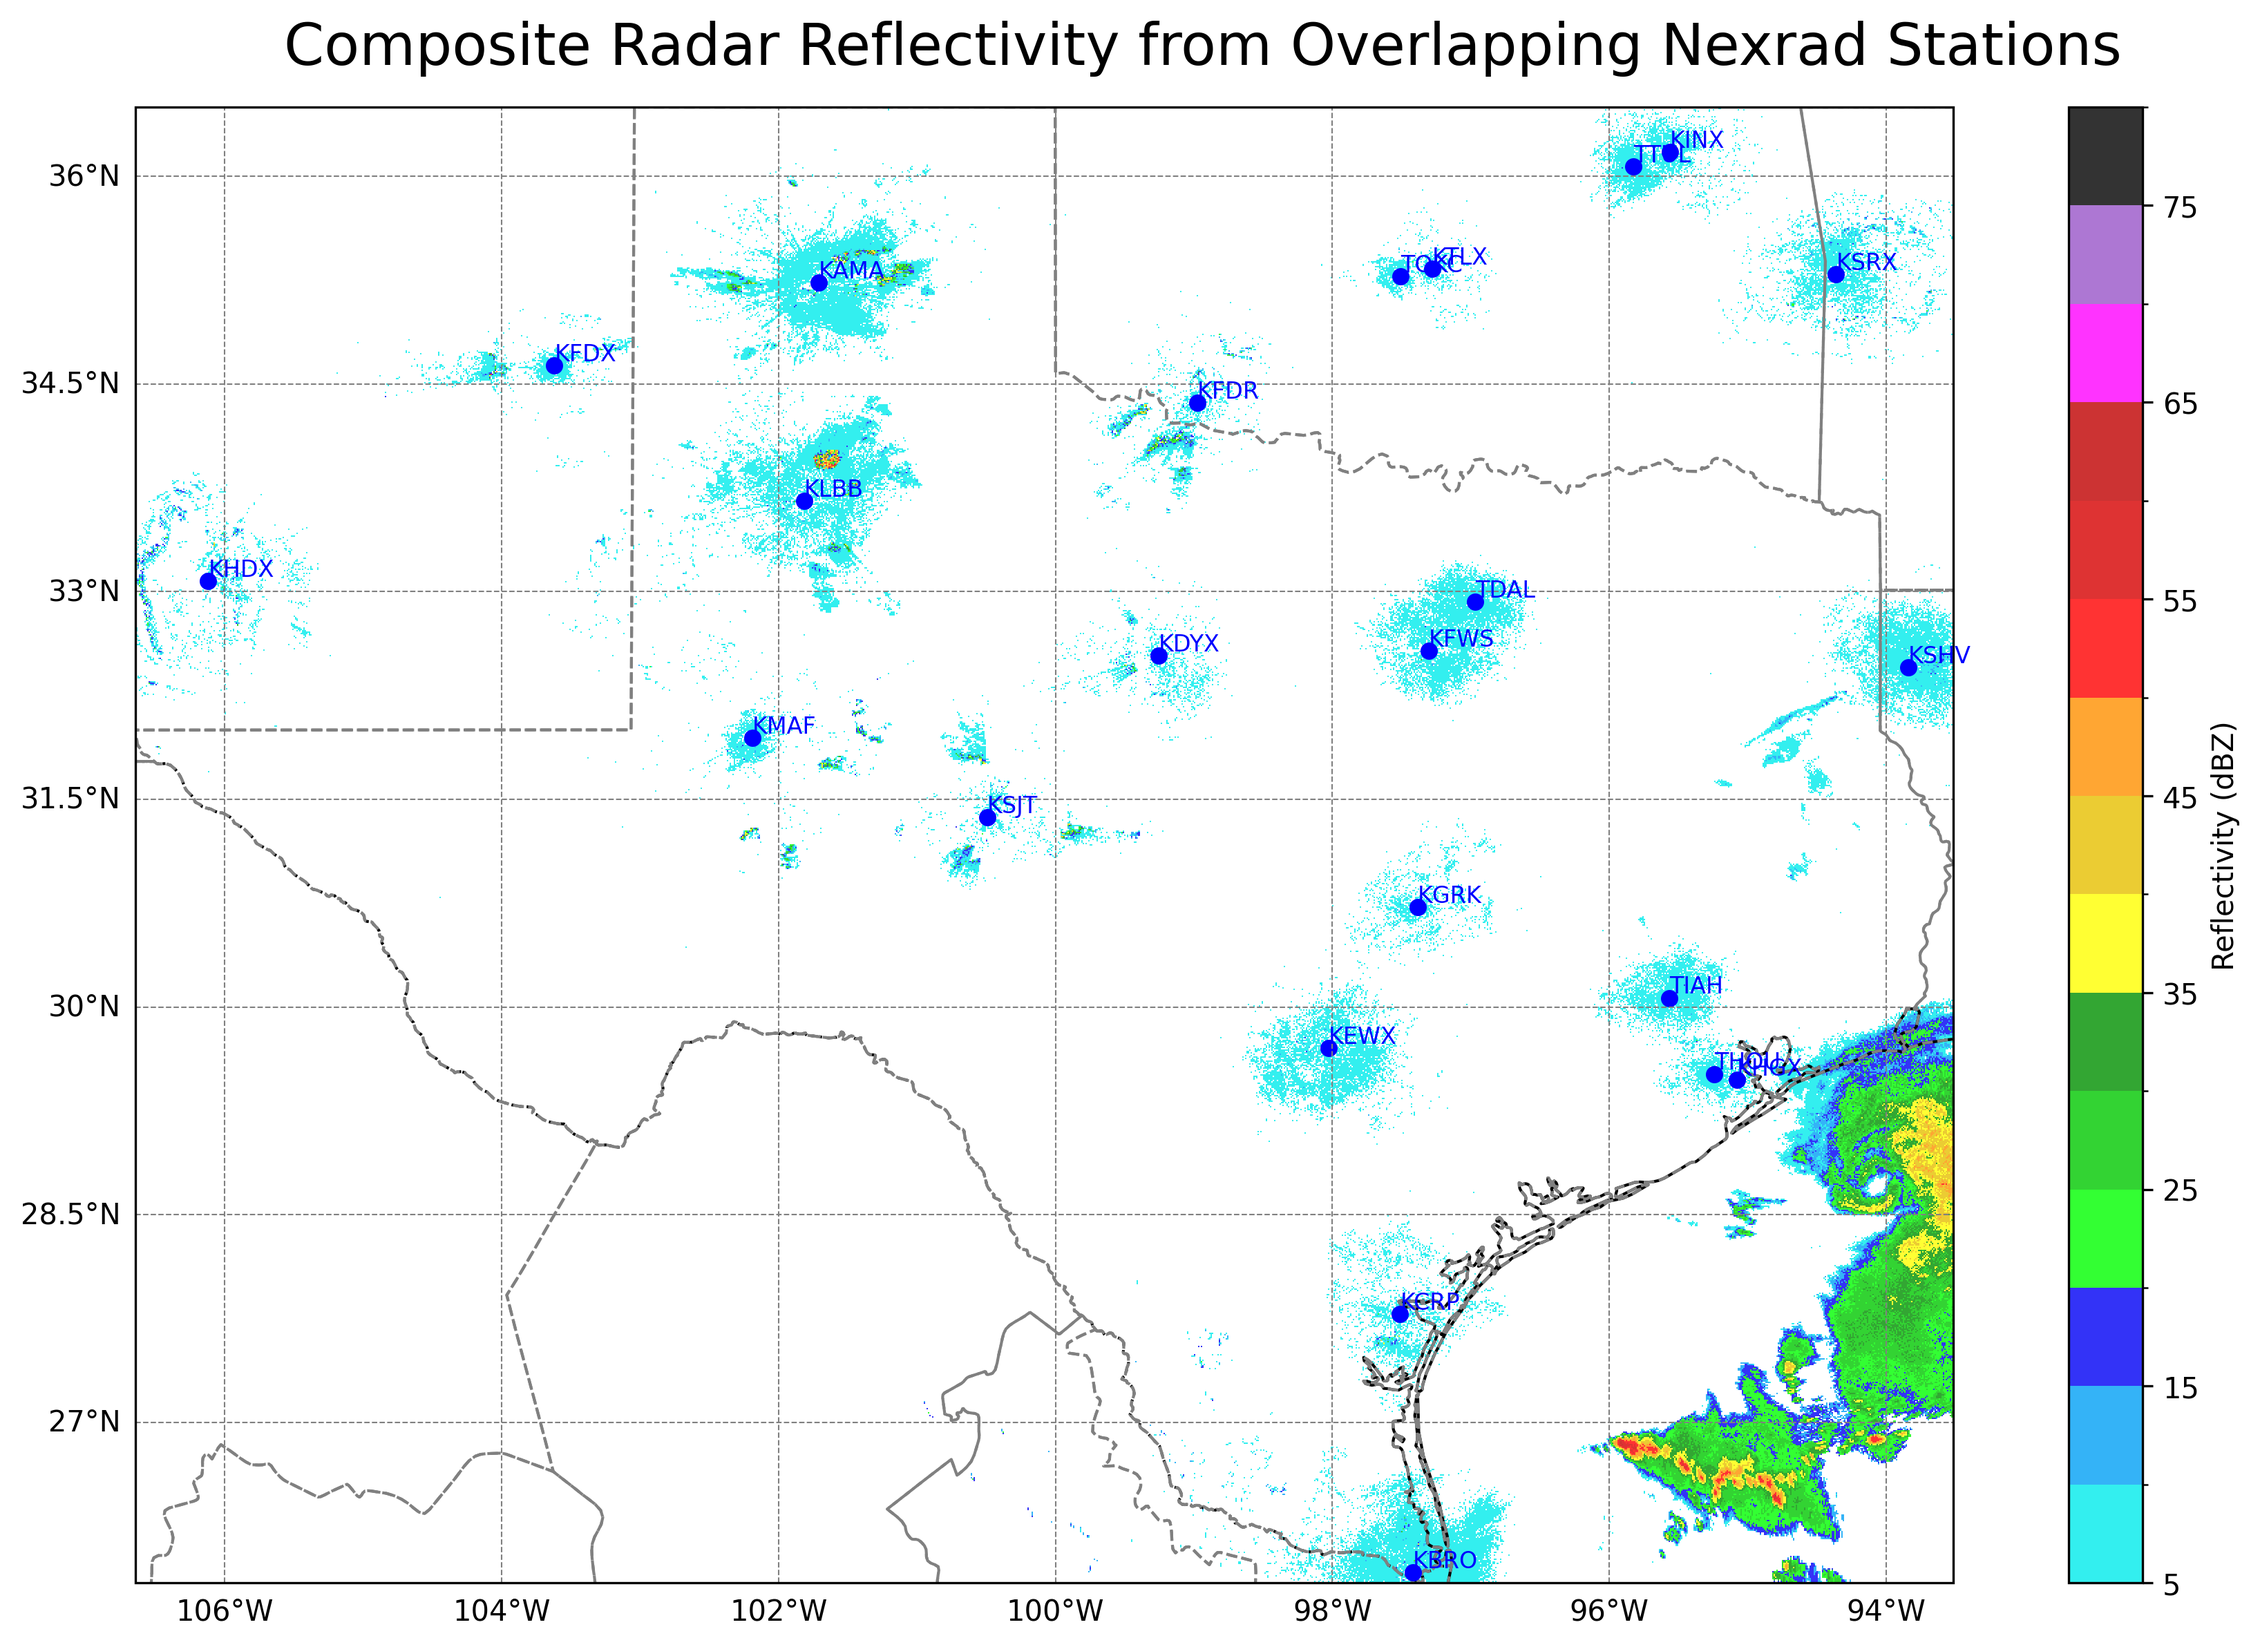
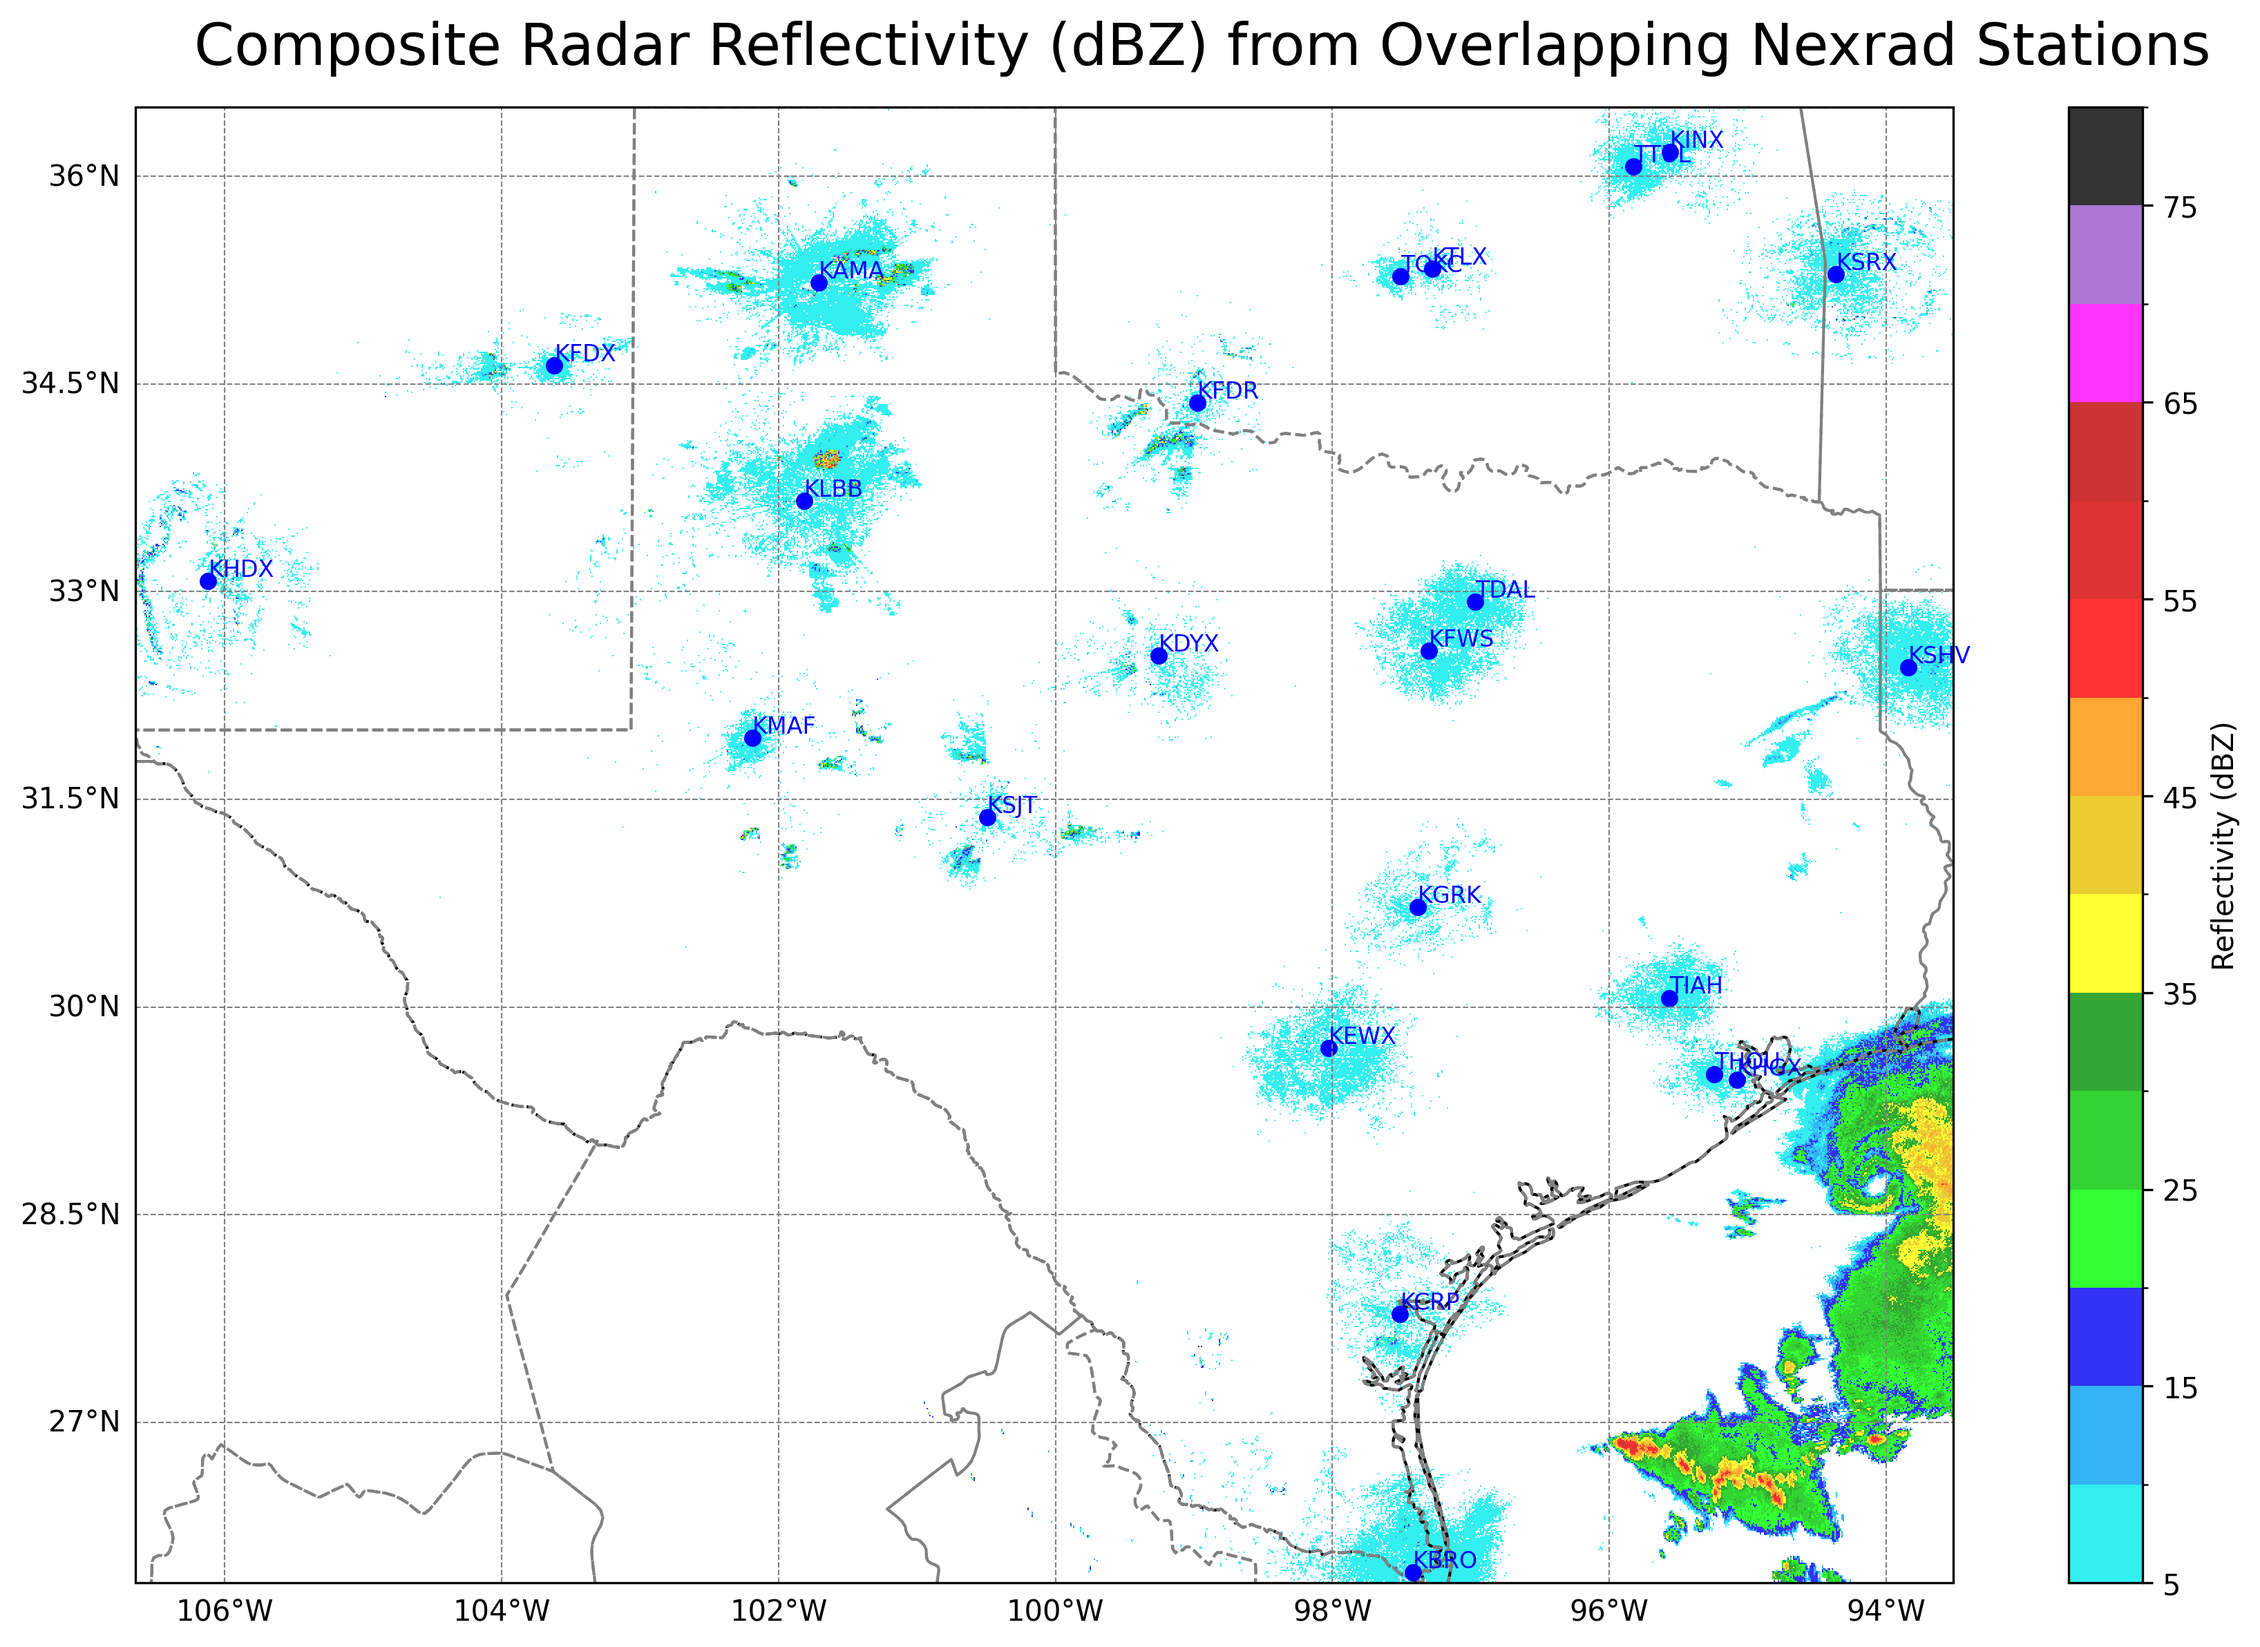
trying to fix

Changed region(s): [[0.0935, 0.0, 0.9667, 0.0621]]

diff --git a/multiple_nexrad_downloader.py b/multiple_nexrad_downloader.py
@@ -11,6 +11,37 @@ from metpy.plots import ctables
 from scipy.interpolate import griddata
 from multiprocessing import Pool, cpu_count, BoundedSemaphore
 
+# ----- User Configuration -----
+# Select parameter: 'REF', 'RHO', 'PHI', or 'ZDR'
+SELECTED_PARAM = 'RHO'  # Change as needed
+
+# Get the NWS reflectivity colortable from MetPy (only called once)
+ref_norm, ref_cmap = ctables.registry.get_with_steps('NWSReflectivity', 5, 5)
+
+# Determine plot colormap and normalization based on the selected parameter.
+if SELECTED_PARAM == 'REF':
+    plot_cmap = ref_cmap
+    plot_norm = ref_norm
+    plot_label = 'Reflectivity (dBZ)'
+elif SELECTED_PARAM == 'RHO':
+    plot_cmap = 'plasma'
+    plot_norm = None
+    plot_label = 'RHO'
+elif SELECTED_PARAM == 'ZDR':
+    plot_cmap = 'viridis'
+    plot_norm = None
+    plot_label = 'Differential Reflectivity (dB)'
+elif SELECTED_PARAM == 'PHI':
+    plot_cmap = 'viridis'
+    plot_norm = None
+    plot_label = 'Differential Phase (°)'
+else:
+    plot_cmap = ref_cmap
+    plot_norm = ref_norm
+    plot_label = SELECTED_PARAM
+
+plot_title = f"Composite Radar {plot_label} from Overlapping Nexrad Stations"
+
 # Global configuration and constants
 BUCKET_NAME = "noaa-nexrad-level2"
 NEXRAD_STATION_LIST_URL = "https://www.ncei.noaa.gov/access/homr/file/nexrad-stations.txt"
@@ -19,19 +50,16 @@ lon_min, lat_min, lon_max, lat_max = -106.647, 25.840, -93.517, 36.500
 show_stations = True
 
 # Option: set the percentage of available cores to use (e.g., 0.5 for 50%)
-CORE_PERCENTAGE = 0.5
+CORE_PERCENTAGE = 0.9
 num_processes = max(1, int(cpu_count() * CORE_PERCENTAGE))
 print(f"Using {num_processes} out of {cpu_count()} cores.")
-
-# Get reflectivity colortable from MetPy
-ref_norm, ref_cmap = ctables.registry.get_with_steps('NWSReflectivity', 5, 5)
 
 # Create master grid for composite plotting
 grid_res = 0.01  # degrees; adjust resolution as needed
 grid_lon = np.arange(lon_min, lon_max, grid_res)
 grid_lat = np.arange(lat_min, lat_max, grid_res)
 grid_lon2d, grid_lat2d = np.meshgrid(grid_lon, grid_lat)
-combined_ref = np.full(grid_lon2d.shape, np.nan)
+combined_param = np.full(grid_lon2d.shape, np.nan)
 combined_rel = np.full(grid_lon2d.shape, np.inf)  # lower value means higher reliability
 
 # Fetch the list of NEXRAD stations (single HTTP request)
@@ -69,16 +97,15 @@ if not filtered_sites:
 processed_station_data = []
 
 # Global semaphore to limit concurrent HTTP requests.
-# This shared semaphore will be passed to each worker.
 def init_pool(sem):
     global http_semaphore
     http_semaphore = sem
 
 def process_station(station, grid_lon2d, grid_lat2d):
     """
-    Processes a single station's radar data by retrieving and interpolating its reflectivity
-    onto the master grid. Uses a shared semaphore (http_semaphore) to limit HTTP requests.
-    Returns a tuple (interp_ref, interp_rel, station_lon, station_lat, icao) if successful, or None.
+    Processes a single station's radar data by retrieving and interpolating the
+    selected parameter onto the master grid. Returns a tuple
+    (interp_param, interp_rel, station_lon, station_lat, icao) if successful.
     """
     try:
         station_lat = float(station['LAT'])
@@ -93,7 +120,6 @@ def process_station(station, grid_lon2d, grid_lat2d):
     bucket = s3_resource.Bucket(BUCKET_NAME)
 
     prefix = f"{dt.year}/{dt.month:02d}/{dt.day:02d}/{icao}/"
-    # Limit the concurrent HTTP call using the shared semaphore
     with http_semaphore:
         response = s3_client.list_objects_v2(Bucket=BUCKET_NAME, Prefix=prefix)
     if "Contents" not in response:
@@ -120,7 +146,6 @@ def process_station(station, grid_lon2d, grid_lat2d):
 
     from metpy.io import Level2File
     try:
-        # Protect HTTP get call with semaphore.
         with http_semaphore:
             f = Level2File(obj.get()['Body'])
     except Exception as e:
@@ -137,68 +162,72 @@ def process_station(station, grid_lon2d, grid_lat2d):
         return None
 
     try:
-        ref_hdr = f.sweeps[sweep][0][4][b'REF'][0]
-        ref_range = np.arange(ref_hdr.num_gates) * ref_hdr.gate_width + ref_hdr.first_gate
-        ref_data = np.array([ray[4][b'REF'][1] for ray in f.sweeps[sweep]])
+        param_bytes = SELECTED_PARAM.encode('utf-8')
+        hdr = f.sweeps[sweep][0][4][param_bytes][0]
+        if SELECTED_PARAM == 'REF':
+            param_range = np.arange(hdr.num_gates) * hdr.gate_width + hdr.first_gate
+        else:
+            param_range = (np.arange(hdr.num_gates + 1) - 0.5) * hdr.gate_width + hdr.first_gate
+        param_data = np.array([ray[4][param_bytes][1] for ray in f.sweeps[sweep]])
     except Exception as e:
-        print(f"Error extracting reflectivity from {obj.key}: {e}")
+        print(f"Error extracting {SELECTED_PARAM} from {obj.key}: {e}")
         return None
 
-    if ref_data.size == 0 or np.all(np.isnan(ref_data)):
+    if param_data.size == 0 or np.all(np.isnan(param_data)):
         return None
 
-    print(f"Processing station attributes to data: {obj.key}")
+    print(f"Processing station {obj.key} for parameter {SELECTED_PARAM}")
 
     from pyproj import Proj
     proj_station = Proj(proj="aeqd", datum="WGS84", lat_0=station_lat, lon_0=station_lon)
-    xlocs = ref_range * np.sin(np.deg2rad(az[:, np.newaxis]))
-    ylocs = ref_range * np.cos(np.deg2rad(az[:, np.newaxis]))
+    xlocs = param_range * np.sin(np.deg2rad(az[:, np.newaxis]))
+    ylocs = param_range * np.cos(np.deg2rad(az[:, np.newaxis]))
 
-    x_diff = xlocs.shape[1] - ref_data.shape[1]
+    x_diff = xlocs.shape[1] - param_data.shape[1]
     if x_diff > 0:
         xlocs = xlocs[:, :-x_diff]
-    data_diff = ref_data.shape[1] - xlocs.shape[1]
+    data_diff = param_data.shape[1] - xlocs.shape[1]
     if data_diff > 0:
-        ref_data = ref_data[:, :-data_diff]
+        param_data = param_data[:, :-data_diff]
 
     lon_locs, lat_locs = proj_station(xlocs * 1000, ylocs * 1000, inverse=True)
     mask = (lon_locs < lon_min) | (lon_locs > lon_max) | (lat_locs < lat_min) | (lat_locs > lat_max)
-    ref_data = np.ma.masked_where(mask, ref_data)
-    if np.all(ref_data.mask):
+    param_data = np.ma.masked_where(mask, param_data)
+    if np.all(param_data.mask):
         return None
 
     reliability = np.sqrt(xlocs**2 + ylocs**2)
     points = np.column_stack((lon_locs.flatten(), lat_locs.flatten()))
-    ref_flat = ref_data.flatten()
+    param_flat = param_data.flatten()
     rel_flat = reliability.flatten()
 
-    interp_ref = griddata(points, ref_flat, (grid_lon2d, grid_lat2d), method='linear')
+    interp_param = griddata(points, param_flat, (grid_lon2d, grid_lat2d), method='linear')
     interp_rel = griddata(points, rel_flat, (grid_lon2d, grid_lat2d), method='linear')
 
-    return (interp_ref, interp_rel, station_lon, station_lat, icao)
+    return (interp_param, interp_rel, station_lon, station_lat, icao)
 
 if __name__ == '__main__':
-    # Create a semaphore to limit concurrent HTTP requests (e.g., allow 4 at a time)
+    # Create a semaphore to limit concurrent HTTP requests (allow 4 at a time)
     http_sem = BoundedSemaphore(4)
     args = [(station, grid_lon2d, grid_lat2d) for station in filtered_sites]
-    
+
     with Pool(num_processes, initializer=init_pool, initargs=(http_sem,)) as pool:
         results = pool.starmap(process_station, args)
 
     for res in results:
         if res is None:
             continue
-        interp_ref, interp_rel, station_lon, station_lat, icao = res
+        interp_param, interp_rel, station_lon, station_lat, icao = res
         valid_mask = ~np.isnan(interp_rel)
         update_mask = valid_mask & (interp_rel < combined_rel)
-        combined_ref[update_mask] = interp_ref[update_mask]
+        combined_param[update_mask] = interp_param[update_mask]
         combined_rel[update_mask] = interp_rel[update_mask]
         processed_station_data.append([station_lon, station_lat, icao])
         print(f"Added station {icao} at ({station_lon}, {station_lat})")
 
     # Create geographic plot using the combined grid
     fig, ax = plt.subplots(1, 1, figsize=(12, 8), subplot_kw={'projection': ccrs.PlateCarree()})
-    mesh = ax.pcolormesh(grid_lon2d, grid_lat2d, combined_ref, cmap=ref_cmap, norm=ref_norm,
+    mesh = ax.pcolormesh(grid_lon2d, grid_lat2d, combined_param, cmap=plot_cmap, norm=plot_norm,
                          shading='auto', transform=ccrs.PlateCarree(), alpha=0.8)
 
     if show_stations:
@@ -220,7 +249,7 @@ if __name__ == '__main__':
     ax.set_xlim(lon_min, lon_max)
     ax.set_ylim(lat_min, lat_max)
 
-    plt.suptitle("Composite Radar Reflectivity from Overlapping Nexrad Stations", fontsize=20)
-    plt.colorbar(mesh, ax=ax, label='Reflectivity (dBZ)')
+    plt.suptitle(plot_title, fontsize=20)
+    plt.colorbar(mesh, ax=ax, label=plot_label)
     plt.tight_layout()
     plt.savefig('nexrad_composite.png', dpi=300, bbox_inches='tight')
